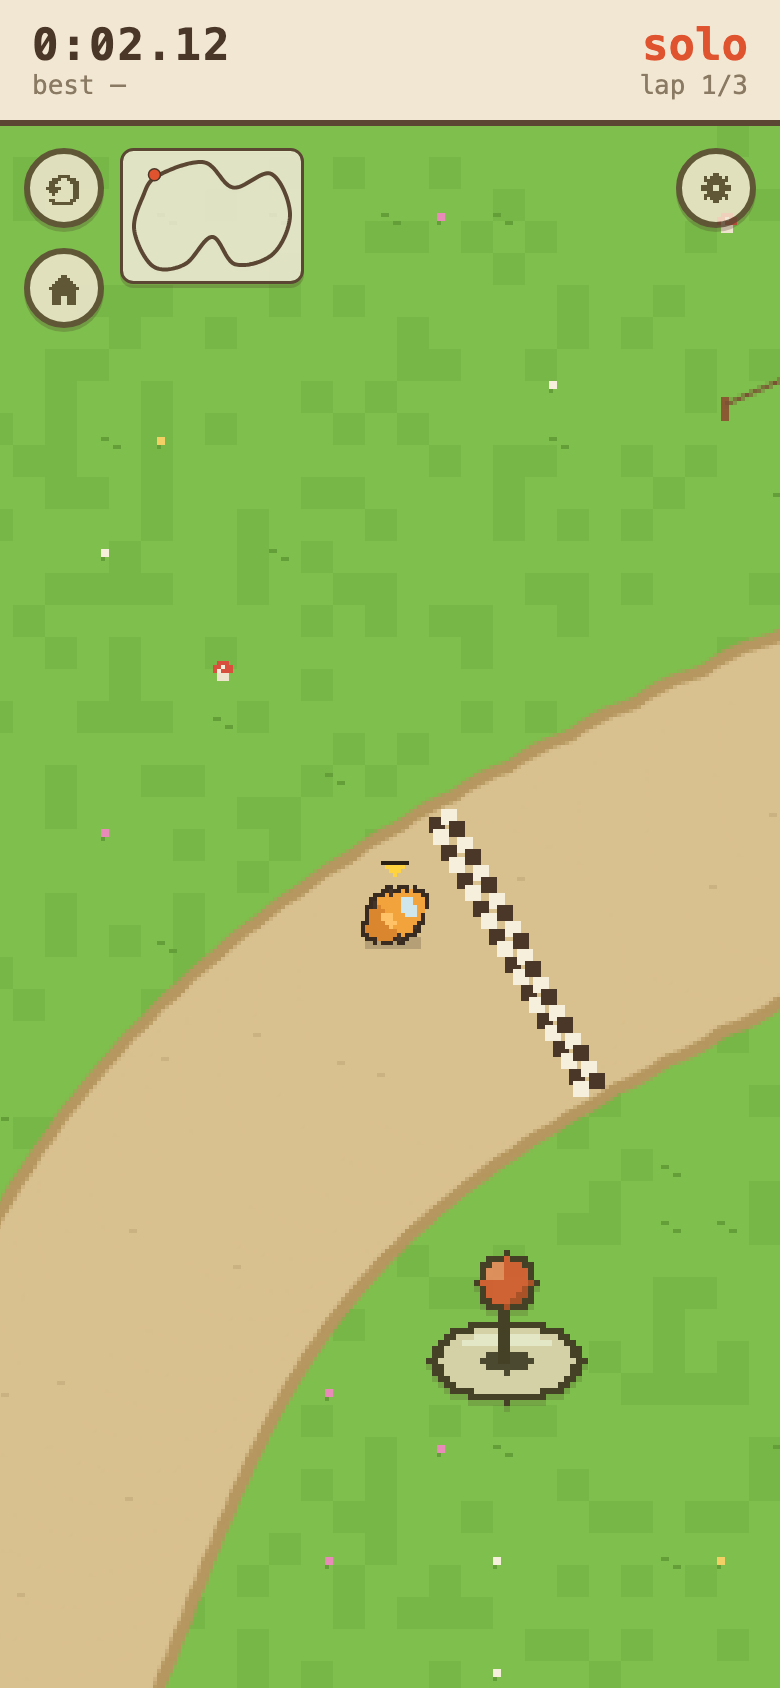
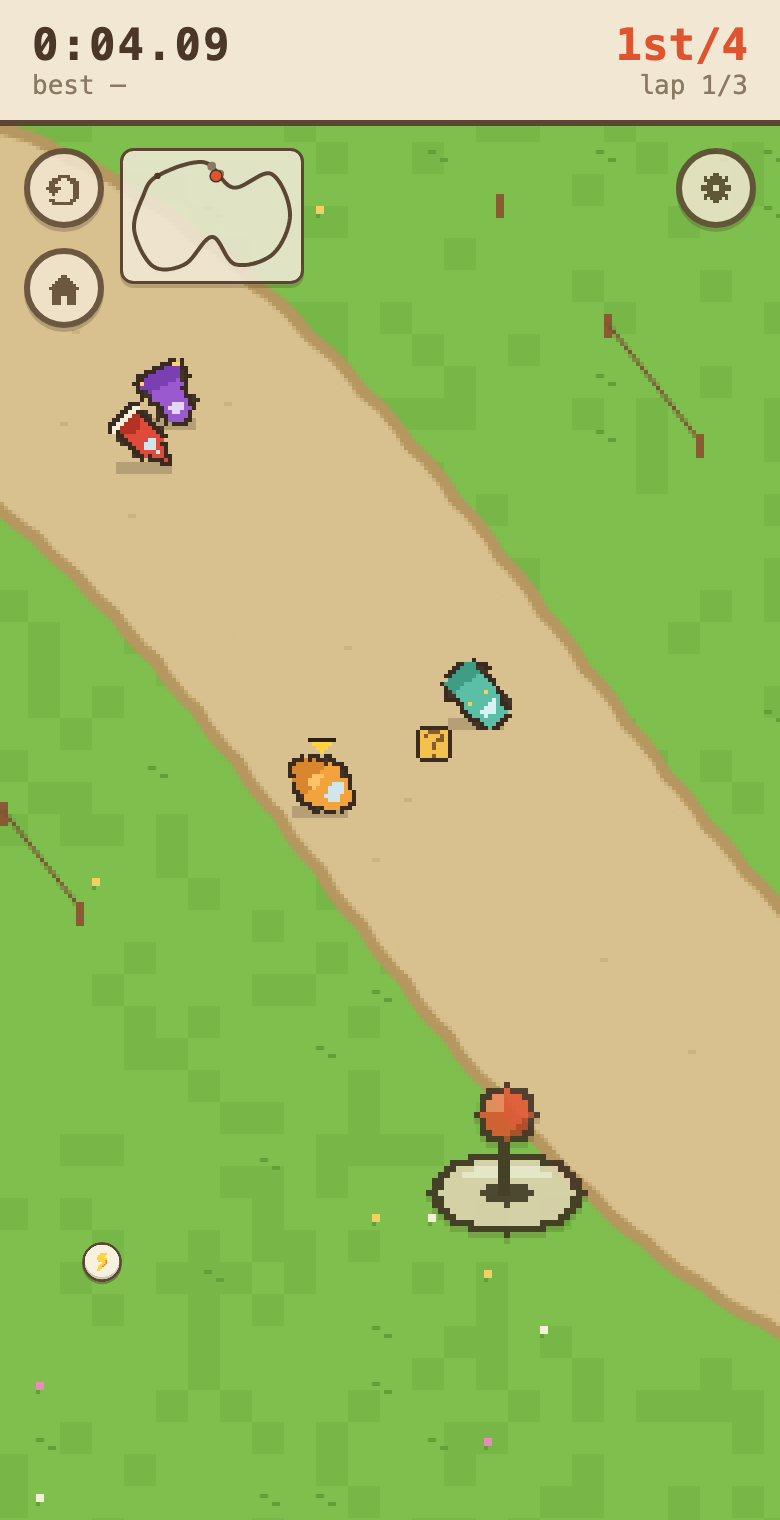
README shots: real mid- and late-game captures, not title screens

diff --git a/README.md b/README.md
@@ -6,9 +6,9 @@ go, drift the corners, beat your best lap.
 **Play it: [vroom-cyan-ten.vercel.app](https://vroom-cyan-ten.vercel.app)** —
 one thumb, best on a phone.
 
-| | |
-|---|---|
-| ![The garage](shots/garage.png) | ![Meadow Loop](shots/race.png) |
+| | | |
+|---|---|---|
+| ![The garage](shots/garage.png) | ![Four-wide into turn one](shots/race.png) | ![Scrapping for the lead](shots/duel.png) |
 
 Six car archetypes with genuinely different handling (plus a custom one you
 tune yourself), five cups to unlock, group races against a rubber-banding AI
